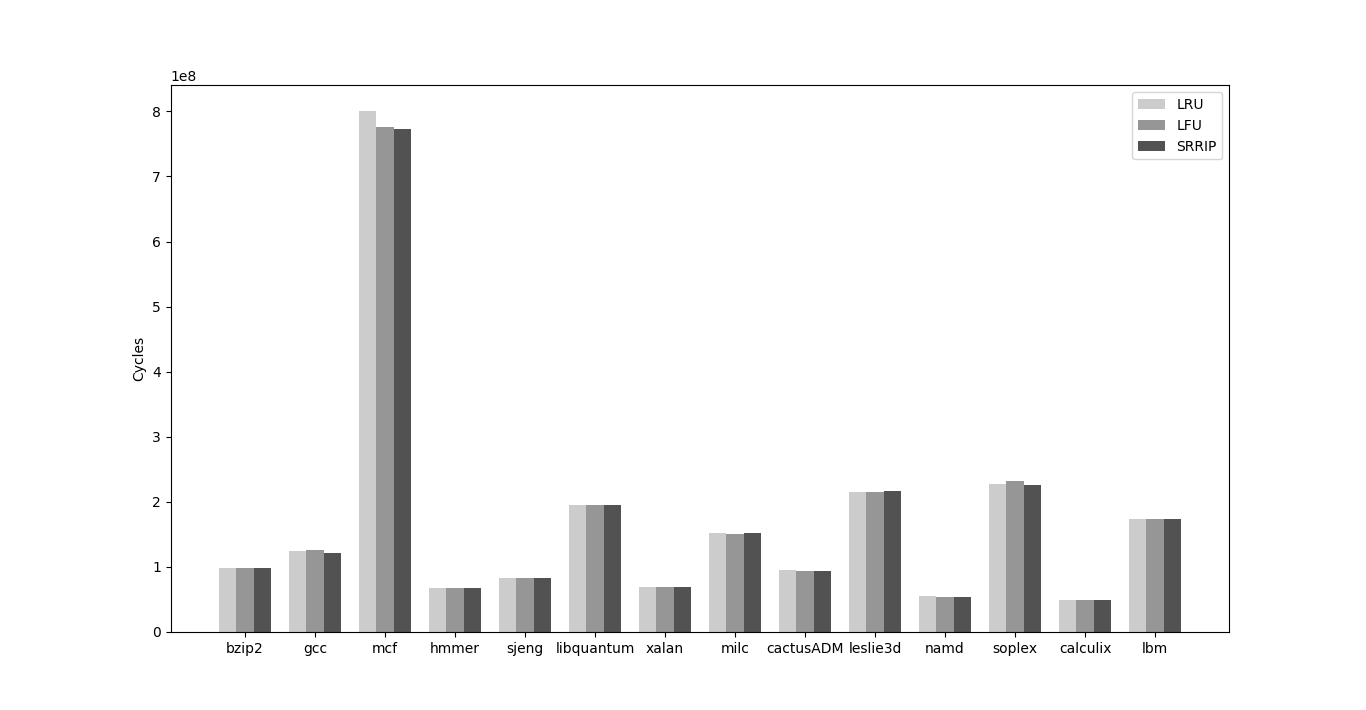
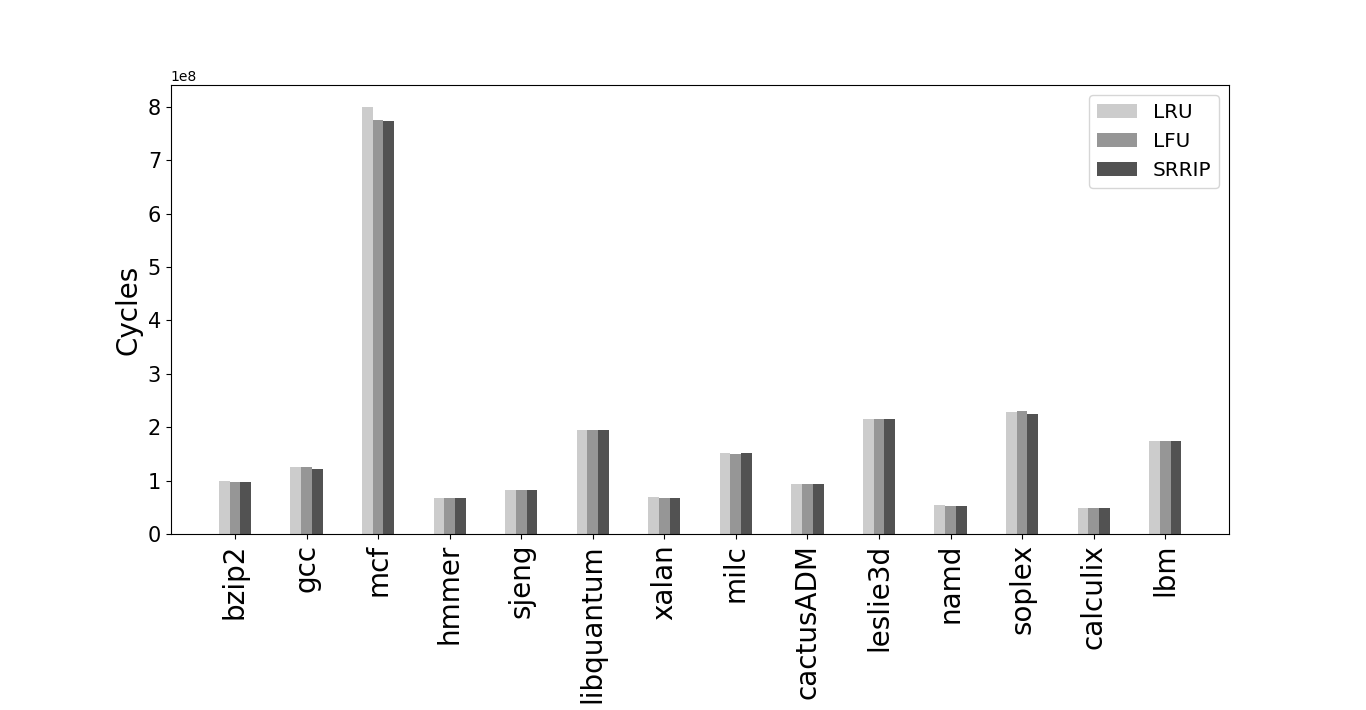
modified plot files

diff --git a/plot_parsec_mpki.py b/plot_parsec_mpki.py
@@ -3,7 +3,7 @@ import matplotlib.pyplot as plt
 
 N = 9
 ind = np.arange(N)  # the x locations for the groups
-width = 0.20      # the width of the bars
+width = 0.15      # the width of the bars
 
 fig = plt.figure()
 ax = fig.add_subplot(111)
@@ -19,10 +19,10 @@ rects2 = ax.bar(ind+width, LFU_vals, width, color='#969696')
 SRRIP_vals = [0.0072486278794048455, 0.0278531808293608, 11.920473910487765, 1.2963319664191433, 0.8815785374565013, 1.0664328582981393, 1.9457962286848287, 0.0022419798737466734, 0.6630149686630252]
 rects3 = ax.bar(ind+width*2, SRRIP_vals, width, color='#525252')
 
-ax.set_ylabel('MPKI')
+ax.set_ylabel('MPKI', fontsize=20)
 ax.set_xticks(ind+width)
-ax.set_xticklabels( ('blackscholes', 'bodytrack', 'canneal', 'dedup', 'fluidanimate', 'freqmine', 'streamcluster', 'swaptions', 'x264') )
-ax.legend( (rects1[0], rects2[0], rects3[0]), ('LRU', 'LFU', 'SRRIP') )
+ax.set_xticklabels( ('blackscholes', 'bodytrack', 'canneal', 'dedup', 'fluidanimate', 'freqmine', 'streamcluster', 'swaptions', 'x264'), rotation=90, fontsize=20 )
+ax.legend( (rects1[0], rects2[0], rects3[0]), ('LRU', 'LFU', 'SRRIP'), fontsize = 'x-large' )
 
 def autolabel(rects):
     for rect in rects:
@@ -33,5 +33,6 @@ def autolabel(rects):
 #autolabel(rects1)
 #autolabel(rects2)
 #autolabel(rects3)
-
+ax.tick_params(axis = 'y', which = 'major', labelsize = 15)
+ax.tick_params(axis = 'y', which = 'minor', labelsize = 15)
 plt.show()

diff --git a/plot_parsec_cycles.py b/plot_parsec_cycles.py
@@ -3,7 +3,7 @@ import matplotlib.pyplot as plt
 
 N = 9
 ind = np.arange(N)  # the x locations for the groups
-width = 0.20      # the width of the bars
+width = 0.15      # the width of the bars
 
 fig = plt.figure()
 ax = fig.add_subplot(111)
@@ -18,10 +18,10 @@ rects2 = ax.bar(ind+width, LFU_vals, width, color='#969696')
 SRRIP_vals = [372116872.0, 395811931.0, 727718913.0, 508576599.0, 526588511.0, 1670937383.0, 621808110.0, 392932382.0, 444796783.0]
 rects3 = ax.bar(ind+width*2, SRRIP_vals, width, color='#525252')
 
-ax.set_ylabel('Cycles')
+ax.set_ylabel('Cycles', fontsize=20)
 ax.set_xticks(ind+width)
-ax.set_xticklabels( ('blackscholes', 'bodytrack', 'canneal', 'dedup', 'fluidanimate', 'freqmine', 'streamcluster', 'swaptions', 'x264') )
-ax.legend( (rects1[0], rects2[0], rects3[0]), ('LRU', 'LFU', 'SRRIP') )
+ax.set_xticklabels( ('blackscholes', 'bodytrack', 'canneal', 'dedup', 'fluidanimate', 'freqmine', 'streamcluster', 'swaptions', 'x264'), rotation=90, fontsize=20)
+ax.legend( (rects1[0], rects2[0], rects3[0]), ('LRU', 'LFU', 'SRRIP'),fontsize = 'x-large' )
 
 def autolabel(rects):
     for rect in rects:
@@ -32,5 +32,6 @@ def autolabel(rects):
 #autolabel(rects1)
 #autolabel(rects2)
 #autolabel(rects3)
-
+ax.tick_params(axis = 'y', which = 'major', labelsize = 15)
+ax.tick_params(axis = 'y', which = 'minor', labelsize = 15)
 plt.show()

diff --git a/plot_parsec_ipc.py b/plot_parsec_ipc.py
@@ -3,7 +3,7 @@ import matplotlib.pyplot as plt
 
 N = 9
 ind = np.arange(N)  # the x locations for the groups
-width = 0.20      # the width of the bars
+width = 0.15      # the width of the bars
 
 fig = plt.figure()
 ax = fig.add_subplot(111)
@@ -20,10 +20,10 @@ SRRIP_vals = [10.9178063095188, 12.632542774462248, 2.3661928915677364, 9.831459
 
 rects3 = ax.bar(ind+width*2, SRRIP_vals, width, color='#525252')
 
-ax.set_ylabel('IPC')
+ax.set_ylabel('IPC', fontsize=20)
 ax.set_xticks(ind+width)
-ax.set_xticklabels( ('blackscholes', 'bodytrack', 'canneal', 'dedup', 'fluidanimate', 'freqmine', 'streamcluster', 'swaptions', 'x264') )
-ax.legend( (rects1[0], rects2[0], rects3[0]), ('LRU', 'LFU', 'SRRIP') )
+ax.set_xticklabels( ('blackscholes', 'bodytrack', 'canneal', 'dedup', 'fluidanimate', 'freqmine', 'streamcluster', 'swaptions', 'x264'), rotation=90, fontsize=20 )
+ax.legend( (rects1[0], rects2[0], rects3[0]), ('LRU', 'LFU', 'SRRIP'), fontsize = 'x-large' )
 
 def autolabel(rects):
     for rect in rects:
@@ -34,5 +34,6 @@ def autolabel(rects):
 #autolabel(rects1)
 #autolabel(rects2)
 #autolabel(rects3)
-
+ax.tick_params(axis = 'y', which = 'major', labelsize = 15)
+ax.tick_params(axis = 'y', which = 'minor', labelsize = 15)
 plt.show()

diff --git a/plot_SPEC_cycles.py b/plot_SPEC_cycles.py
@@ -3,7 +3,7 @@ import matplotlib.pyplot as plt
 
 N = 14
 ind = np.arange(N)  # the x locations for the groups
-width = 0.25      # the width of the bars
+width = 0.15     # the width of the bars
 
 fig = plt.figure()
 ax = fig.add_subplot(111)
@@ -19,11 +19,11 @@ rects3 = ax.bar(ind+width*2, SRRIP_vals, width, color='#525252')
 
 
 
-ax.set_ylabel('Cycles')
+ax.set_ylabel('Cycles', fontsize=20)
 ax.set_xticks(ind+width)
-ax.set_xticklabels( ('bzip2', 'gcc', 'mcf', 'hmmer', 'sjeng', 'libquantum', 'xalan', 'milc', 'cactusADM', 'leslie3d', 'namd', 'soplex', 'calculix', 'lbm') )
+ax.set_xticklabels( ('bzip2', 'gcc', 'mcf', 'hmmer', 'sjeng', 'libquantum', 'xalan', 'milc', 'cactusADM', 'leslie3d', 'namd', 'soplex', 'calculix', 'lbm'), rotation=90, fontsize=20  )
 
-ax.legend( (rects1[0], rects2[0], rects3[0]), ('LRU', 'LFU', 'SRRIP') )
+ax.legend( (rects1[0], rects2[0], rects3[0]), ('LRU', 'LFU', 'SRRIP'), fontsize = 'x-large'  )
 
 def autolabel(rects):
     for rect in rects:
@@ -34,5 +34,6 @@ def autolabel(rects):
 #autolabel(rects1)
 #autolabel(rects2)
 #autolabel(rects3)
-
+ax.tick_params(axis = 'y', which = 'major', labelsize = 15)
+ax.tick_params(axis = 'y', which = 'minor', labelsize = 15)
 plt.show()

diff --git a/plot_SPEC_MPKI.py b/plot_SPEC_MPKI.py
@@ -3,7 +3,7 @@ import matplotlib.pyplot as plt
 
 N = 14
 ind = np.arange(N)  # the x locations for the groups
-width = 0.25      # the width of the bars
+width = 0.15      # the width of the bars
 
 fig = plt.figure()
 #ax = fig.add_subplot(111)
@@ -20,10 +20,10 @@ rects3 = ax.bar(ind+width*2, SRRIP_vals, width, color='#525252')
 
 
 
-ax.set_ylabel('MPKI')
+ax.set_ylabel('MPKI', fontsize=20)
 ax.set_xticks(ind+width)
-ax.set_xticklabels( ('bzip2', 'gcc', 'mcf', 'hmmer', 'sjeng', 'libquantum', 'xalan', 'milc', 'cactusADM', 'leslie3d', 'namd', 'soplex', 'calculix', 'lbm') )
-ax.legend( (rects1[0], rects2[0], rects3[0]), ('LRU', 'LFU', 'SRRIP') )
+ax.set_xticklabels( ('bzip2', 'gcc', 'mcf', 'hmmer', 'sjeng', 'libquantum', 'xalan', 'milc', 'cactusADM', 'leslie3d', 'namd', 'soplex', 'calculix', 'lbm'), rotation=90, fontsize=20  )
+ax.legend( (rects1[0], rects2[0], rects3[0]), ('LRU', 'LFU', 'SRRIP'), fontsize = 'x-large' )
 
 def autolabel(rects):
     for rect in rects:
@@ -34,5 +34,6 @@ def autolabel(rects):
 #autolabel(rects1)
 #autolabel(rects2)
 #autolabel(rects3)
-
+ax.tick_params(axis = 'y', which = 'major', labelsize = 15)
+ax.tick_params(axis = 'y', which = 'minor', labelsize = 15)
 plt.show()

diff --git a/plot_SPEC_IPC.py b/plot_SPEC_IPC.py
@@ -3,7 +3,7 @@ import matplotlib.pyplot as plt
 
 N = 14
 ind = np.arange(N)  # the x locations for the groups
-width = 0.25      # the width of the bars
+width = 0.15      # the width of the bars
 
 fig = plt.figure()
 #ax = fig.add_subplot(111)
@@ -20,11 +20,11 @@ rects3 = ax.bar(ind+width*2, SRRIP_vals, width, color='#525252')
 
 
 
-ax.set_ylabel('IPC')
+ax.set_ylabel('IPC', fontsize=20)
 ax.set_xticks(ind+width)
-ax.set_xticklabels( ('bzip2', 'gcc', 'mcf', 'hmmer', 'sjeng', 'libquantum', 'xalan', 'milc', 'cactusADM', 'leslie3d', 'namd', 'soplex', 'calculix', 'lbm') )
+ax.set_xticklabels( ('bzip2', 'gcc', 'mcf', 'hmmer', 'sjeng', 'libquantum', 'xalan', 'milc', 'cactusADM', 'leslie3d', 'namd', 'soplex', 'calculix', 'lbm'), rotation=90, fontsize=20  )
 
-ax.legend( (rects1[0], rects2[0], rects3[0]), ('LRU', 'LFU', 'SRRIP') )
+ax.legend( (rects1[0], rects2[0], rects3[0]), ('LRU', 'LFU', 'SRRIP'), fontsize = 'x-large')
 
 def autolabel(rects):
     for rect in rects:
@@ -35,5 +35,6 @@ def autolabel(rects):
 #autolabel(rects1)
 #autolabel(rects2)
 #autolabel(rects3)
-
+ax.tick_params(axis = 'y', which = 'major', labelsize = 15)
+ax.tick_params(axis = 'y', which = 'minor', labelsize = 15)
 plt.show()
